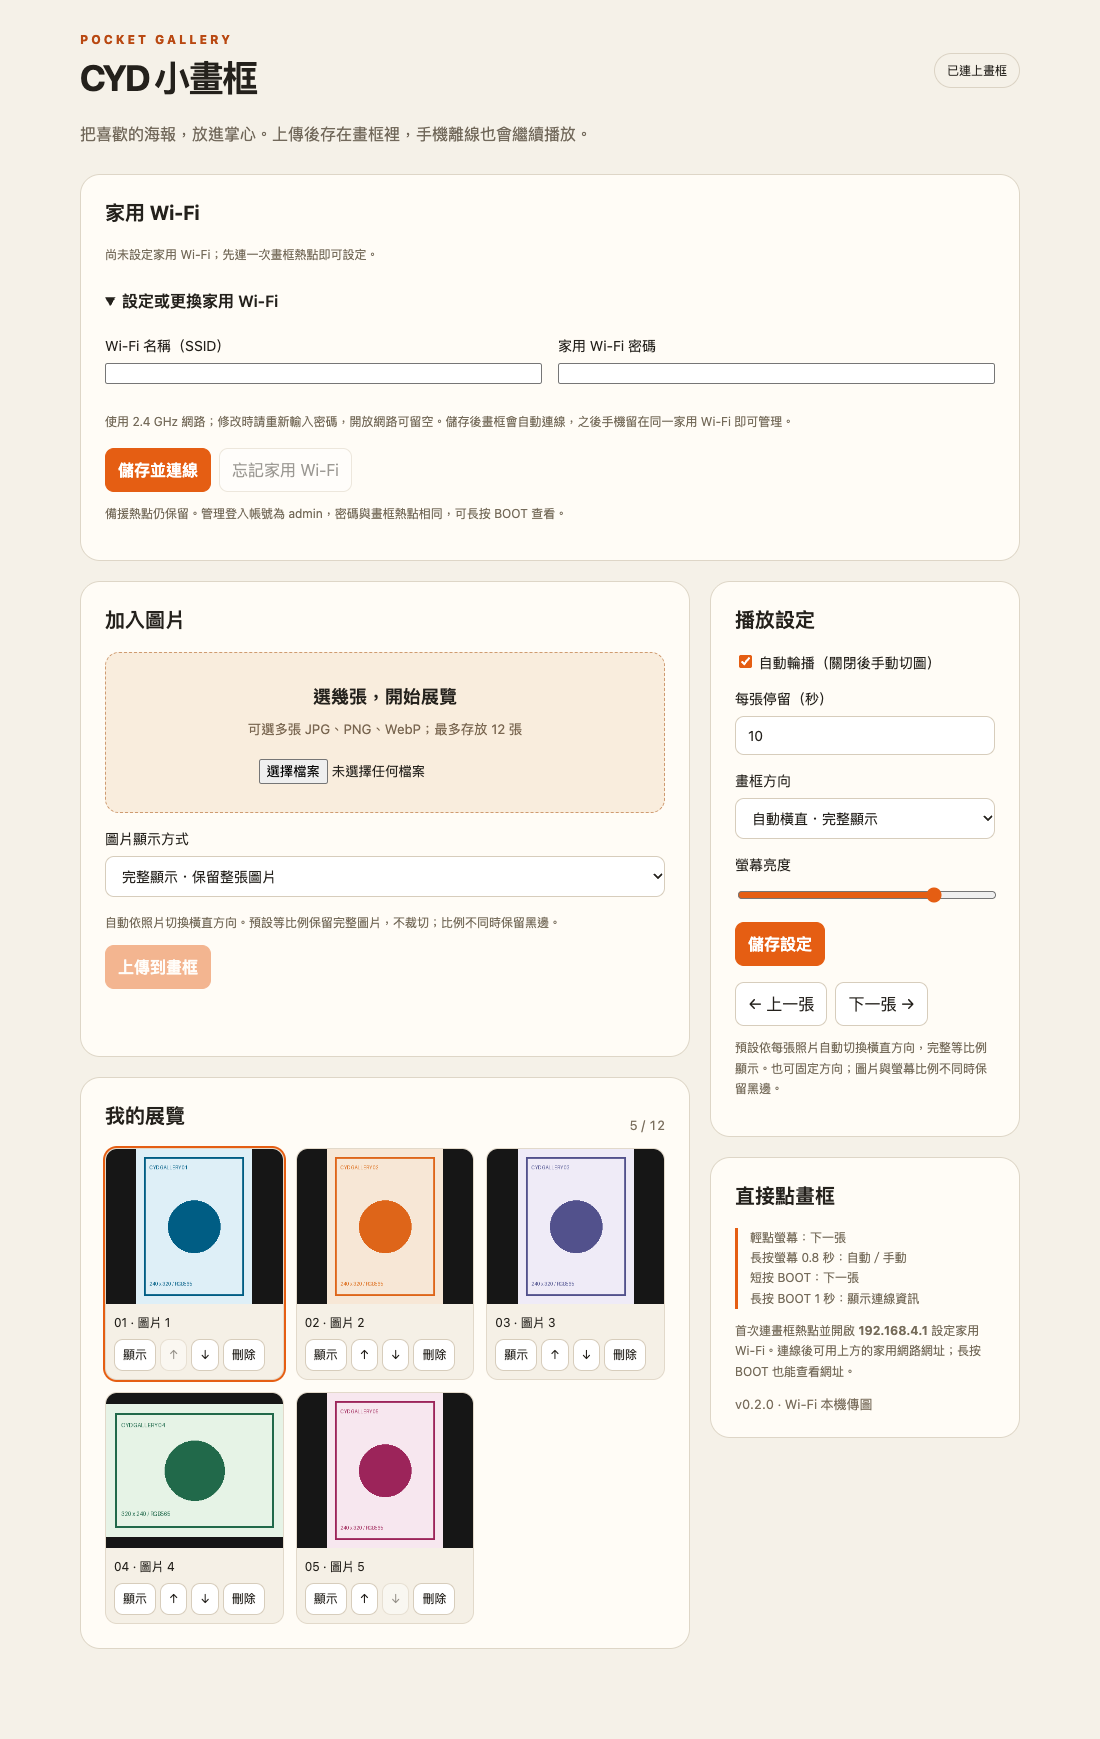
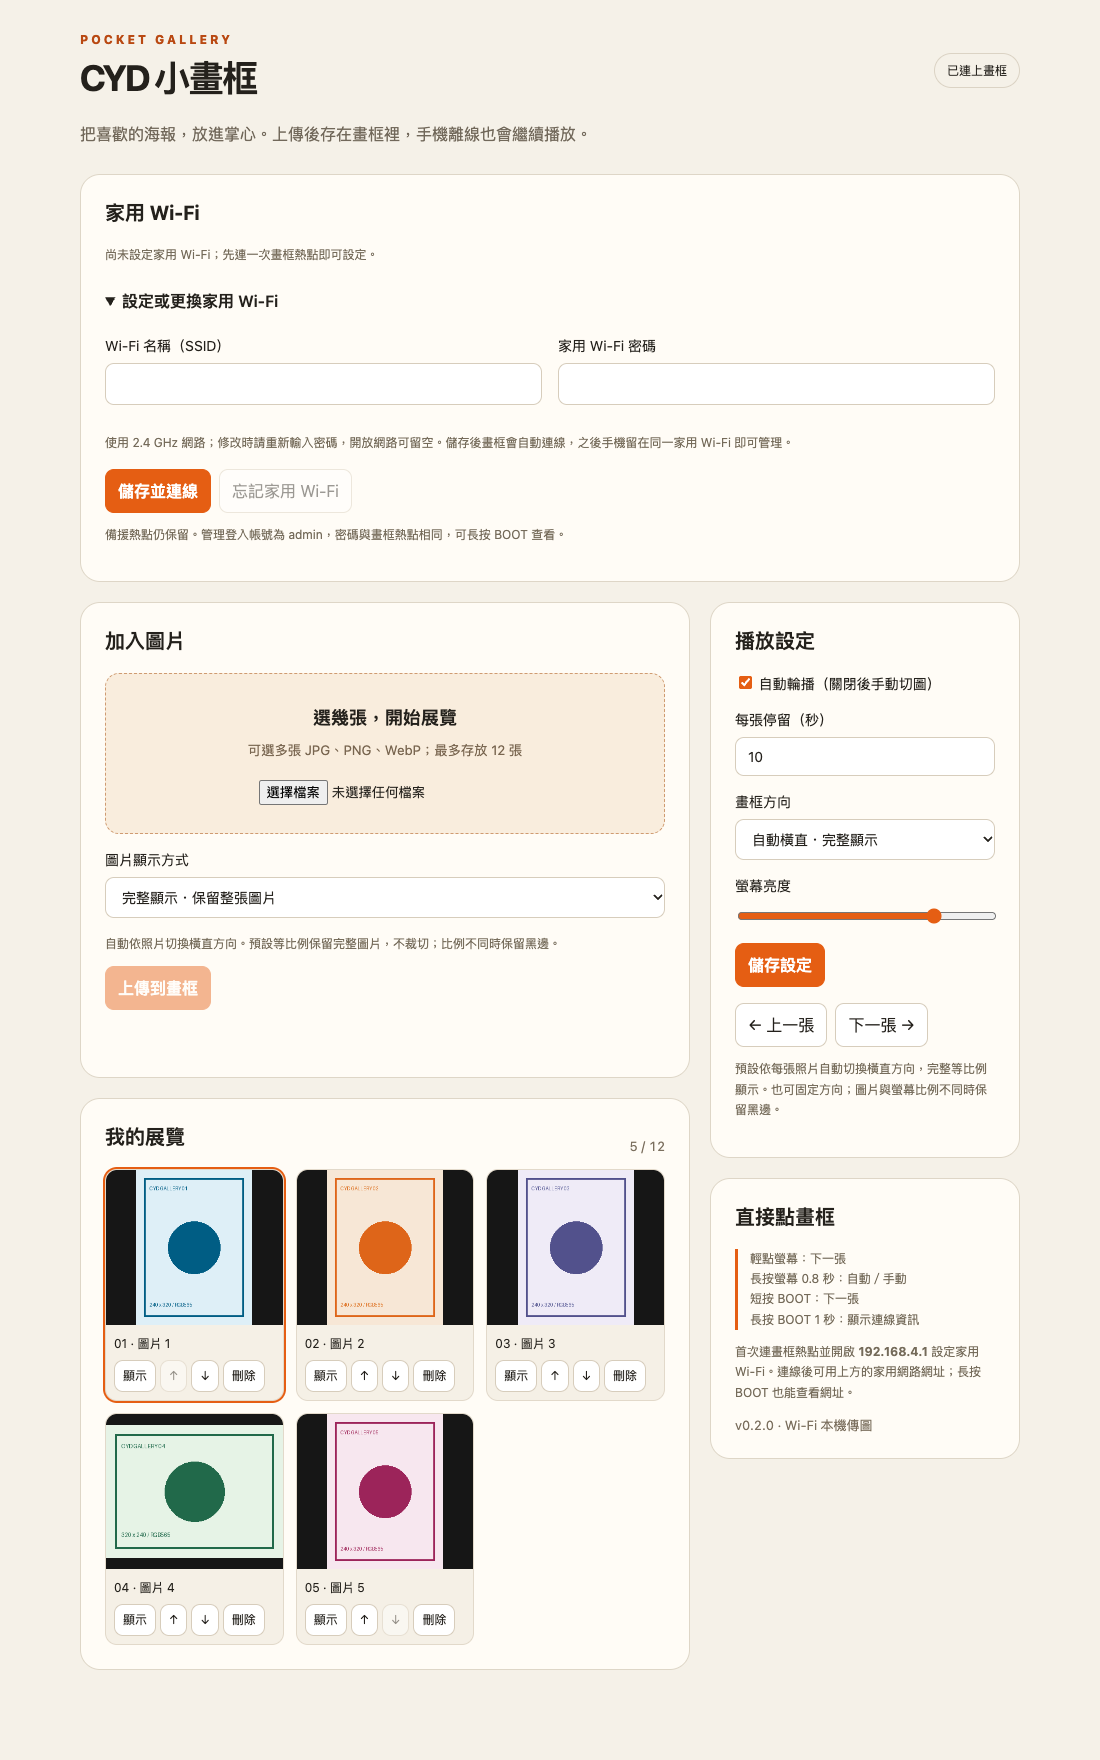
Improve phone Wi-Fi form and record clean CI validation

diff --git a/web/index.html b/web/index.html
@@ -1,7 +1,7 @@
 <!doctype html>
 <html lang="zh-Hant"><head><meta charset="utf-8"><meta name="viewport" content="width=device-width,initial-scale=1"><meta name="theme-color" content="#ef6817"><title>CYD 小畫框</title>
 <style>
-:root{font-family:system-ui,-apple-system,sans-serif;color:#24211c;background:#f5f1e8;accent-color:#e55e13}*{box-sizing:border-box}body{margin:0}main{max-width:980px;margin:auto;padding:32px 20px 70px}header{display:flex;align-items:center;justify-content:space-between;gap:16px}h1{font-size:36px;letter-spacing:-2px;margin:6px 0}h2{font-size:20px;margin:0 0 18px}.eyebrow{font-size:12px;letter-spacing:3px;font-weight:800;color:#b94912}.badge{border:1px solid #dbd3c4;border-radius:30px;padding:8px 12px;font-size:12px;white-space:nowrap}.intro{color:#71685a;line-height:1.7;margin:12px 0 26px}.layout{display:grid;grid-template-columns:1fr 310px;gap:20px}.panel{background:#fffcf6;border:1px solid #ded6c7;border-radius:20px;padding:24px;margin-bottom:20px}.drop{display:block;background:#f9eddd;border:1.5px dashed #cf9b71;border-radius:14px;padding:28px 15px;text-align:center;cursor:pointer;line-height:1.8}.drop strong{display:block;font-size:18px}.drop small{color:#796650}input[type=file]{display:block;max-width:100%;margin:16px auto 0}button,select,input[type=number]{font:inherit;border:1px solid #d7cdbc;border-radius:9px;padding:10px 12px;background:white;color:inherit}button{cursor:pointer;min-height:42px}button:hover{border-color:#e55e13}button:disabled{opacity:.45;cursor:wait}.primary{background:#e55e13;color:white;border-color:#e55e13;font-weight:700}.actions{display:flex;flex-wrap:wrap;gap:8px;margin-top:16px}label.field{display:block;margin:16px 0;font-size:14px}label.field select,label.field input[type=number]{width:100%;margin-top:7px}input[type=range]{width:100%;margin-top:12px}.hint{font-size:12px;line-height:1.7;color:#756b5a}.message{padding:12px 0;min-height:43px;font-size:14px;overflow-wrap:anywhere}.error{color:#a42216}progress{width:100%;height:8px}.grid{display:grid;grid-template-columns:repeat(3,minmax(0,1fr));gap:12px}.card{border:1px solid #e2d9ca;border-radius:12px;overflow:hidden;background:#f5f0e6}.card.active{outline:2px solid #e55e13}.card canvas{width:100%;height:155px;object-fit:contain;background:#161616;display:block}.card footer{padding:8px}.card .actions{gap:4px;margin:8px 0 0}.card button{font-size:12px;padding:4px 8px;min-height:32px}.card span{font-size:12px}.empty{color:#7b6f5e;padding:20px 0;font-size:14px}.tip{border-left:3px solid #e55e13;padding-left:12px}.network-grid{display:grid;grid-template-columns:1fr 1fr;gap:0 16px}.network-grid input{width:100%;margin-top:7px}summary{cursor:pointer;font-weight:600;padding:8px 0}#homeLink{color:#b94912;overflow-wrap:anywhere}@media(max-width:700px){.network-grid{grid-template-columns:1fr}}.count{font-variant-numeric:tabular-nums;color:#7b6f5e;font-size:13px}.preview-shell{background:#1e1e1b;border-radius:16px;padding:12px;max-width:230px;margin:16px auto;box-shadow:0 6px 18px #0001}.preview-shell canvas{display:block;width:100%;height:auto;background:black}.preview-shell small{display:block;color:#bfb9ad;text-align:center;font-size:10px;margin-top:8px}@media(max-width:700px){main{padding:24px 16px}.layout{grid-template-columns:1fr}.grid{grid-template-columns:repeat(2,minmax(0,1fr))}h1{font-size:31px}.panel{padding:20px}.badge{font-size:10px}header{align-items:flex-start}}
+:root{font-family:system-ui,-apple-system,sans-serif;color:#24211c;background:#f5f1e8;accent-color:#e55e13}*{box-sizing:border-box}body{margin:0}main{max-width:980px;margin:auto;padding:32px 20px 70px}header{display:flex;align-items:center;justify-content:space-between;gap:16px}h1{font-size:36px;letter-spacing:-2px;margin:6px 0}h2{font-size:20px;margin:0 0 18px}.eyebrow{font-size:12px;letter-spacing:3px;font-weight:800;color:#b94912}.badge{border:1px solid #dbd3c4;border-radius:30px;padding:8px 12px;font-size:12px;white-space:nowrap}.intro{color:#71685a;line-height:1.7;margin:12px 0 26px}.layout{display:grid;grid-template-columns:1fr 310px;gap:20px}.panel{background:#fffcf6;border:1px solid #ded6c7;border-radius:20px;padding:24px;margin-bottom:20px}.drop{display:block;background:#f9eddd;border:1.5px dashed #cf9b71;border-radius:14px;padding:28px 15px;text-align:center;cursor:pointer;line-height:1.8}.drop strong{display:block;font-size:18px}.drop small{color:#796650}input[type=file]{display:block;max-width:100%;margin:16px auto 0}button,select,input[type=number]{font:inherit;border:1px solid #d7cdbc;border-radius:9px;padding:10px 12px;background:white;color:inherit}button{cursor:pointer;min-height:42px}button:hover{border-color:#e55e13}button:disabled{opacity:.45;cursor:wait}.primary{background:#e55e13;color:white;border-color:#e55e13;font-weight:700}.actions{display:flex;flex-wrap:wrap;gap:8px;margin-top:16px}label.field{display:block;margin:16px 0;font-size:14px}label.field select,label.field input[type=number]{width:100%;margin-top:7px}input[type=range]{width:100%;margin-top:12px}.hint{font-size:12px;line-height:1.7;color:#756b5a}.message{padding:12px 0;min-height:43px;font-size:14px;overflow-wrap:anywhere}.error{color:#a42216}progress{width:100%;height:8px}.grid{display:grid;grid-template-columns:repeat(3,minmax(0,1fr));gap:12px}.card{border:1px solid #e2d9ca;border-radius:12px;overflow:hidden;background:#f5f0e6}.card.active{outline:2px solid #e55e13}.card canvas{width:100%;height:155px;object-fit:contain;background:#161616;display:block}.card footer{padding:8px}.card .actions{gap:4px;margin:8px 0 0}.card button{font-size:12px;padding:4px 8px;min-height:32px}.card span{font-size:12px}.empty{color:#7b6f5e;padding:20px 0;font-size:14px}.tip{border-left:3px solid #e55e13;padding-left:12px}.network-grid{display:grid;grid-template-columns:1fr 1fr;gap:0 16px}.network-grid input{font:inherit;border:1px solid #d7cdbc;border-radius:9px;padding:10px 12px;min-height:42px;width:100%;margin-top:7px}summary{cursor:pointer;font-weight:600;padding:8px 0}#homeLink{color:#b94912;overflow-wrap:anywhere}@media(max-width:700px){.network-grid{grid-template-columns:1fr}}.count{font-variant-numeric:tabular-nums;color:#7b6f5e;font-size:13px}.preview-shell{background:#1e1e1b;border-radius:16px;padding:12px;max-width:230px;margin:16px auto;box-shadow:0 6px 18px #0001}.preview-shell canvas{display:block;width:100%;height:auto;background:black}.preview-shell small{display:block;color:#bfb9ad;text-align:center;font-size:10px;margin-top:8px}@media(max-width:700px){main{padding:24px 16px}.layout{grid-template-columns:1fr}.grid{grid-template-columns:repeat(2,minmax(0,1fr))}h1{font-size:31px}.panel{padding:20px}.badge{font-size:10px}header{align-items:flex-start}}
 </style></head><body><main>
 <header><div><div class="eyebrow">POCKET GALLERY</div><h1>CYD 小畫框</h1></div><span class="badge" id="connection">正在連線</span></header>
 <p class="intro">把喜歡的海報，放進掌心。上傳後存在畫框裡，手機離線也會繼續播放。</p>

diff --git a/docs/VALIDATION.md b/docs/VALIDATION.md
@@ -10,12 +10,15 @@
 - 瀏覽器模擬 API 整合測試通過：桌面／手機排版、完整圖片邊緣保留、編解碼、切圖、設定、排序、刪除、混合橫直上傳與失敗恢復。
 - 新增 Wi-Fi 設定／狀態／忘記流程的瀏覽器測試；提交後清空密碼欄，回傳的網路狀態不含家用 Wi-Fi 密碼。
 - 公開預覽與測試只使用自製幾何圖。使用者照片、私有驗證日誌、硬體身分與 Flash 備份未納入公開 repo。
+- 公開 repo 首輪 [GitHub Actions](https://github.com/MAXXTANG/cyd-photo-frame/actions/runs/43406339747) 的 firmware-and-host 與 browser 工作均通過，包含乾淨 Linux 環境的兩板型編譯與空白圖片區建置。
 
 ## 先前版本的實機證據
 
 0.1.3 已在雙 USB ST7789 CYD 上完成 app-only 更新、六張圖片開機 CRC 校驗，以及橫式 320×240／直式 240×320 切換。使用者確認長按切換自動／手動、短點換圖正常，橫圖從原圖重製後較清楚。這些是 0.1.3 的驗收，不取代 0.2.0 家用 Wi-Fi 功能驗收。
 
 ## 0.2.0 待實機確認
+
+本輪刷機嘗試因 USB 裝置未連接，在晶片識別前停止，沒有寫入 0.2.0；目前板子仍是先前的 0.1.3。已請使用者重新連接資料線。
 
 - 更新後原有六張照片與播放設定保留。
 - 備援熱點與管理登入。
